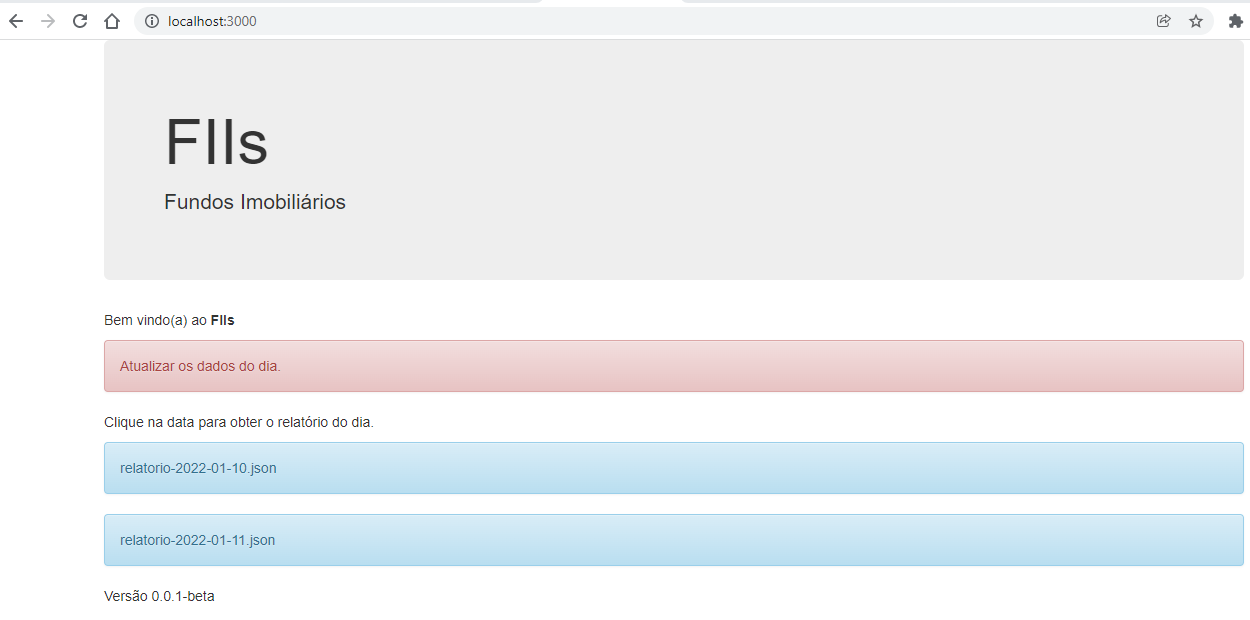
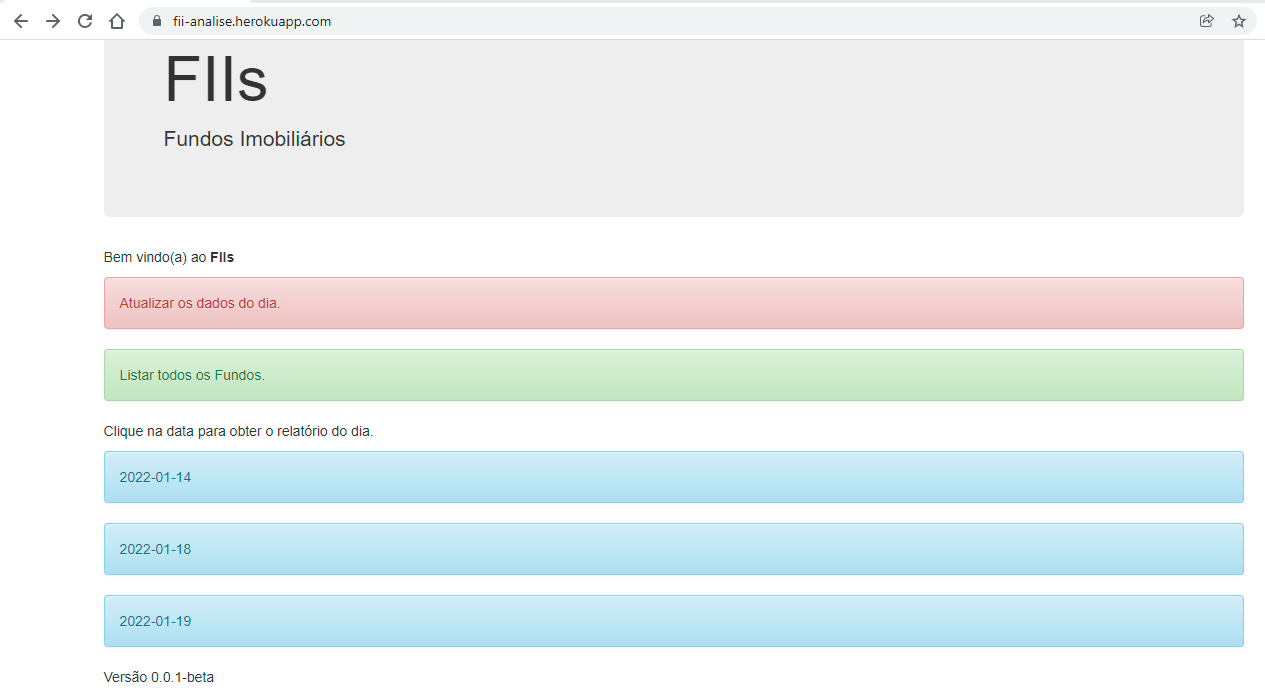
Ajute na documentação

diff --git a/README.md b/README.md
@@ -1,6 +1,8 @@
 # Analise de Fundos Imobiliários por Scraper
 *Repositório de Analise para FII - Fundos Imobiliários.*
 
+https://fii-analise.herokuapp.com/
+
 ## Instalação
 
 ```
@@ -14,12 +16,14 @@ npm install
 npm run debug
 ```
 
+Acesse: http://localhost:3000/
+
 ### Modo Produção
 ```
 npm run start
 ```
 
-Acesse: http://localhost:3000/
+Acesse: https://fii-analise.herokuapp.com/
 
 ### Lista de Fii - 11-01-2022
 FII | Tipo |
@@ -62,7 +66,6 @@ VSLH11 | Híbrido |
 XPLG11 | Tijolo |
 XPML11 | Tijolo |
 
-### Adicionar novos FIIs para analise, diretamente no arquivo pageController.js
 
 ## Funcionalidades
 - Tela Inicial - Botão para atualizar a situação dos FIIs na data corrente via scraper;  
@@ -72,8 +75,22 @@ XPML11 | Tijolo |
 ![Tela Atualizar](imagens/tela-atualizar.png)
 
 
-*Obs.: Não pode fechar o navegador que vai abrir.*    
-![Navegador aberto](imagens/navegador-aberto.png)
-
 - Relatório de FII por data - P/VP abaixo de 1 linha em azul, P\VP acima de 1 linha vermelha.  
 ![Relatorio](imagens/relatorio.png)
+
+
+- Cadastrar Novos Fundos para sincronização.  
+![Relatorio](imagens/tela-fundos.png)
+
+- Lista de Fundos.  
+![Relatorio](imagens/tela-fundos.png)
+
+
+## Publicação via Heroku
+- Código está na brach ´develop´
+*Depois que efetuar o commit na develop*
+
+### Commit e publicação
+```
+git push heroku HEAD:master
+```
